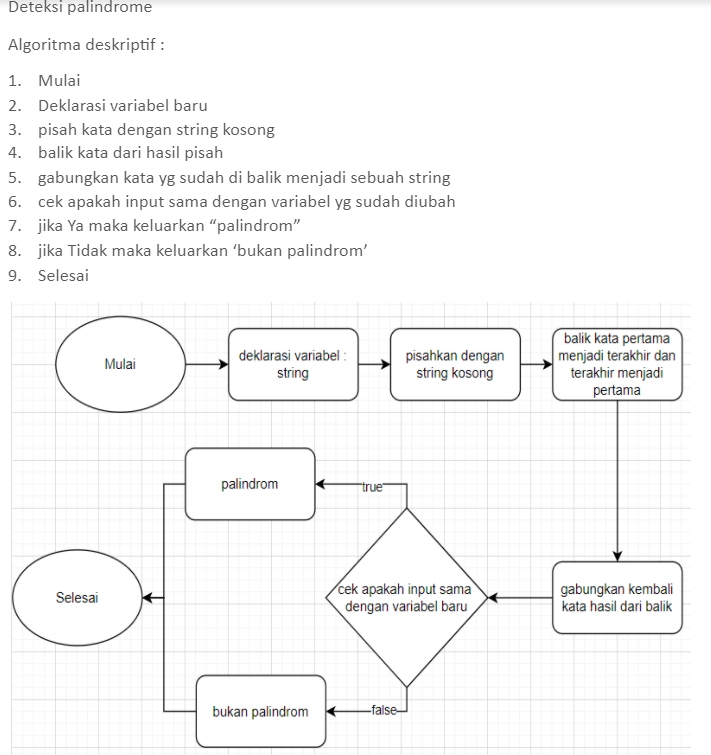
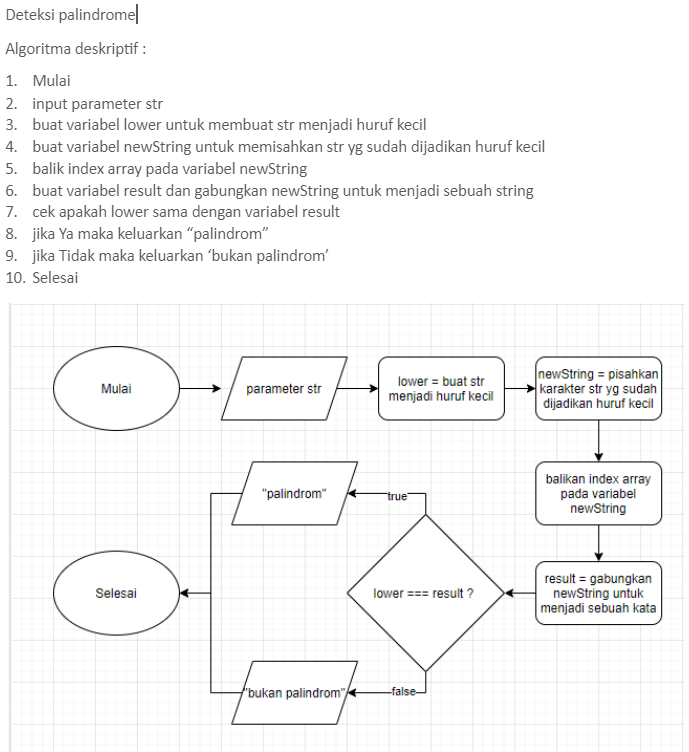
update

diff --git a/no1.js b/no1.js
@@ -1,13 +1,16 @@
 function palindrom(str) {
-    const newString = str.split("").reverse().join("")
-    //console.log(newString)
-    if (str === newString) {
+    let lower = str.toLowerCase()
+    console.log(lower)
+    let newString = lower.split("")
+    newString.reverse()
+    let result = newString.join("")
+    if (lower === result) {
         console.log(`${str} adalah kata palindrom`)
     } else {
         console.log(`${str} bukan kata palindrom`)
     }
 }
-palindrom("malam")
+palindrom("MalAm")
 
 function cekKata(str) {
     let newStr = ""
